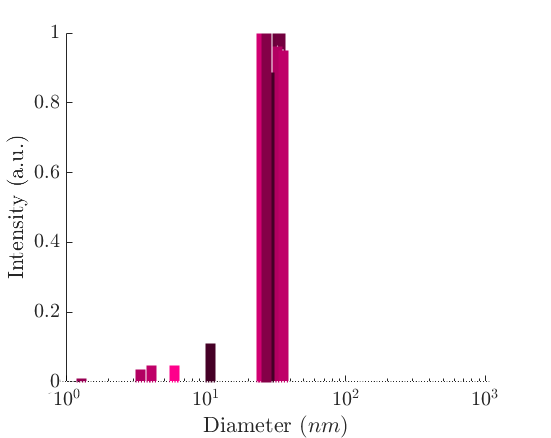
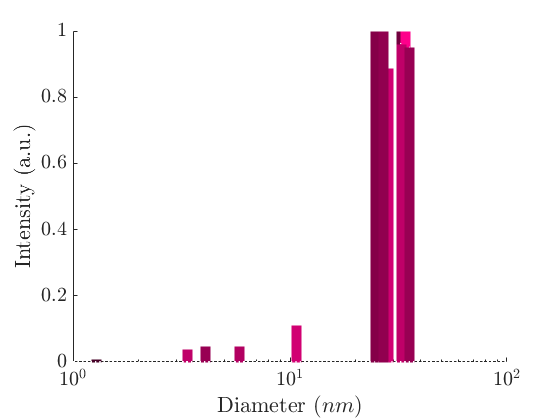
nieuwe afbeeldingen DLS en sample preparation

Changed region(s): [[0.216, 0.0619, 0.7713, 1.0], [0.0, 0.0619, 0.1851, 0.9286], [0.8022, 0.8357, 0.9256, 0.9286]]

diff --git a/Verslag/content/MaterialAndMethods.tex b/Verslag/content/MaterialAndMethods.tex
@@ -145,6 +145,8 @@ Here $\mu_e$ is called the electrophoretic mobility and its link with the $\zeta
 with $\eta$ the viscosity and $\epsilon$ the dielectric constant of the medium. Measuring the constant velocity of the particles in electric field E is done by irradiating the moving particles with a laser of known wavelength and registrate the doppler shift in the scattered radiation. Hence an experimental value for the $\zeta$-potential is obtained and this is a quantitative indicator for the stability of the colloid.
 \subsection{Radiosensitization}
 \subsubsection{Sample Preparation}
-To verify the effect of Gold nanoparticles on DNA a mixture of DNA and GNP solution (PEGylated) is prepared. These samples will then be irradiated with varying X-Ray dose ($0$Gy-$15$Gy). To have an optimal radiosensitization effect on the DNA irradiation the GNP solutions have to be centrifuged. The concentration of gold nanoparticles in a $250$ ml solution obtained following the protocol described in the appendix is $1.7\cdot10^9$ GNP/$\mu$l, $2.1 \cdot10^8$ GNP/$\mu$l and $6.3 \cdot10^7$ GNP/$\mu$l for the particles of size $15$nm, $30$nm and $45$nm respectively. This has been calculated using the known molar masses of gold and tetrachlorauric acid, the mass density of gold ($\rho_{Au}=19.32$) and under the assumption that all particles have the same size and are spherical. After centrifugation the volume is reduced to $0.5$ml achieving a concentration of $8.5$
-
+To verify the effect of Gold nanoparticles on DNA a mixture of DNA and GNP solution (PEGylated) is prepared. These samples will then be irradiated with varying X-Ray dose ($0$Gy-$15$Gy). To have an optimal radiosensitization effect on the DNA irradiation the GNP solutions have to be centrifuged. The concentration of gold nanoparticles in a $250$ ml solution obtained following the protocol described in the appendix is $1.7\cdot10^9$ GNP/$\mu$l, $2.1 \cdot10^8$ GNP/$\mu$l and $6.3 \cdot10^7$ GNP/$\mu$l for the particles of size $15$nm, $30$nm and $45$nm respectively. This has been calculated using the known molar masses of gold and tetrachlorauric acid, the mass density of gold ($\rho_{Au}=19.32$) and under the assumption that all particles have the same size and are spherical.
+The total volume is divided in four equal parts and each part is functionalized with a different PEG. After centrifugation each volume is reduced to $0.5$ml achieving a concentration for the $15$nm, $30$nm and $45$nm particles of $2.1\cdot10^{11}$ GNP/$\mu$l, $2.7\cdot10^{10}$ GNP/$\mu$l and $7.9\cdot10^{9}$ GNP/$\mu$l respectively.
+The DNA being used is a supercoiled double-stranded plasmid of $5386$ basepair long and a molecular weight of $3.50\cdot10^6$Da \footnote{phiX$174$ from Thermo Scientific}. $2.5\mu$l of $0.5\mu$g/$\mu$l DNA solution is mixed with $30\mu$l of the centrifuged GNP solutions. To prevent the DNA from deterioration $17.5\mu$l of phosphate buffered saline (PBS)\footnote{from Sigma-ALdrich} was added to each sample.  \\
+The final samples are a $50\mu$l solution with roughly a $30:1$ GNP:DNA ratio for the $15$nm particles, a $4:1$ ration for the $30$nm particles and a $1:1$ ratio for the $45$nm particles.
 \subsubsection{DNA damage analysis}

diff --git a/Measurement_Results/gel/GNP.m b/Measurement_Results/gel/GNP.m
@@ -1,21 +1,30 @@
 M_H=1.008;
+%M_H=1;
 M_Au=196.967;
+%M_Au=197;
 M_Cl=35.453;
+%M_Cl=35;
 m_HAuCl4=0.0250;%g
 r_15=15/2;%nm
 r_30=30/2;%nm
-%r_30=30/2;
 r_45=45/2;%nm
+NA=6.022*10^(23);
 p_Au=19.32;%g/cm^3
-
+Da=1.661*10^(-24);%g
+MW_DNA=3.50*10^6*Da*10^6;%ug
+c_DNAsol=0.5;%ug/ul
+v_DNAsol=2.5;%ul
 M_HAuCl4=M_H+M_Au+4*M_Cl;
 m=[ r_15 r_30 r_45];
 c_250=0;
 c_05=0;
 for i=1:length(m)
-    r=m(i)*10^(-7);
-    V_Au=(4/3)* pi *r^3;
-    N=( m_HAuCl4 * M_Au ) / ( M_HAuCl4 * p_Au * V_Au);
-    c_250=(N*10^(-3))/250
-    c_05=N*2*10^(-3)
+    r=m(i)*10^(-7);%cm
+    V_Au=(4/3)* pi *r^3; %cm^
+    N=( m_HAuCl4 * M_Au ) / ( M_HAuCl4 * p_Au * V_Au); %aantal GNP
+    c_250=(N*10^(-3))/250%GNP/ul
+    c_05=(N/4)*2*10^(-3)%GNP/ul
+    N_GNP_30ul=c_05*30
+    N_DNAmol=c_DNAsol*v_DNAsol/MW_DNA
+    verhoudingGNPDNA=N_GNP_30ul/N_DNAmol
 end

diff --git a/Measurement_Results/DLS_read_2.m b/Measurement_Results/DLS_read_2.m
@@ -17,7 +17,7 @@ for i=1: 3
     C=xlsread(fullfile('DLS','Data_verslag',[num2str(ml(i)) '_20k.xlsx']))
 
     fig=figure(i)
-    set(fig, 'Position', [262 191 900 440])
+    %set(fig, 'Position', [262 191 500 440])
     if i==1
         axis();
         set(gca, 'colororder', B, 'nextplot', 'replacechildren');
